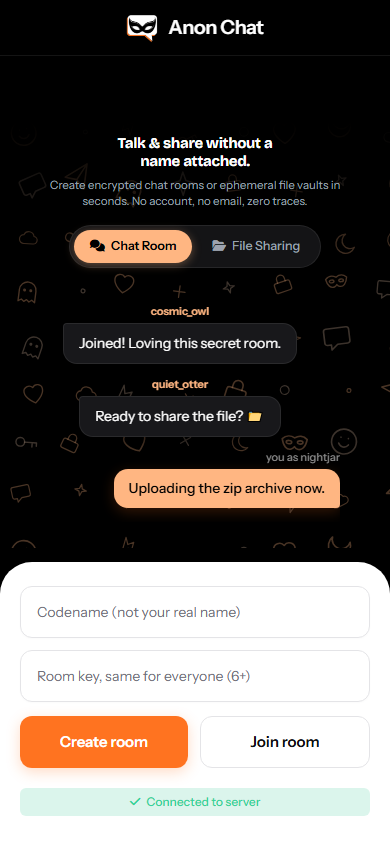
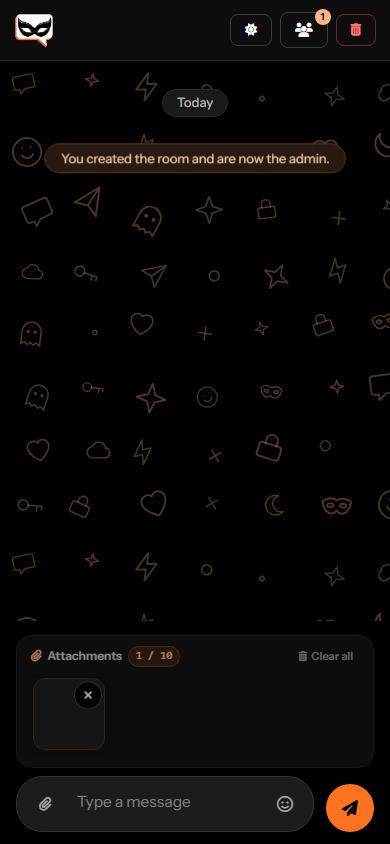
feat(phase13): android custom webview input connection for gboard stickers and mediaDraft integration

diff --git a/public/script.js b/public/script.js
@@ -1059,6 +1059,8 @@ document.addEventListener('DOMContentLoaded', () => {
                     let messageType = 'video';
                     if (mediaItem.type === 'snap' || mediaItem.isSnap) {
                         messageType = 'snap';
+                    } else if (mediaItem.type === 'sticker' || mediaItem.isSticker || (mediaItem.file && mediaItem.file.isSticker)) {
+                        messageType = 'sticker';
                     } else if (fType.startsWith('image')) {
                         messageType = 'image';
                     } else if (fType.startsWith('audio')) {
@@ -3816,6 +3818,47 @@ document.addEventListener('DOMContentLoaded', () => {
 
     messageInput.addEventListener("focus", () => {
         mediaPicker.style.display = "none";
+    });
+
+    // Phase 13: Handle keyboard content (stickers/GIFs from Gboard, etc.)
+    function dataUrlToFile(dataUrl, filename, mimeType) {
+        try {
+            const arr = dataUrl.split(',');
+            const mime = mimeType || (arr[0].match(/:(.*?);/) || [])[1] || 'image/png';
+            const bstr = atob(arr[1] || arr[0]);
+            let n = bstr.length;
+            const u8arr = new Uint8Array(n);
+            while (n--) {
+                u8arr[n] = bstr.charCodeAt(n);
+            }
+            const ext = mime.includes('gif') ? 'gif' : mime.includes('webp') ? 'webp' : (mime.includes('jpeg') || mime.includes('jpg')) ? 'jpg' : 'png';
+            const safeName = filename ? (filename.includes('.') ? filename : `${filename}.${ext}`) : `sticker_${Date.now()}.${ext}`;
+            const file = new File([u8arr], safeName, { type: mime, lastModified: Date.now() });
+            file.isSticker = true;
+            return file;
+        } catch (e) {
+            console.error('Failed to convert keyboard content dataUrl to File:', e);
+            return null;
+        }
+    }
+
+    function processKeyboardContent(detail) {
+        if (!detail || !detail.base64) return;
+        const file = dataUrlToFile(detail.base64, detail.name, detail.mimeType);
+        if (file) {
+            if (window.mediaDraft && typeof window.mediaDraft.add === 'function') {
+                window.mediaDraft.add([file]);
+            } else {
+                handleMediaFilesFromExternal([file]);
+            }
+        }
+    }
+
+    window.handleKeyboardContent = processKeyboardContent;
+    window.addEventListener('keyboardContent', (e) => {
+        if (e && e.detail) {
+            processKeyboardContent(e.detail);
+        }
     });
 
     // Helper to handle external media files from paste, drop, or keyboard insertion

diff --git a/tests/audit.spec.ts b/tests/audit.spec.ts
@@ -1088,11 +1088,39 @@ test.describe('Audit Suite - Current Behavior', () => {
   // PHASE 13: Keyboard GIFs/stickers
   test('PHASE 13: Keyboard GIFs/stickers listener', async ({ page }) => {
     await page.goto('/');
+
+    const roomKey = `kbd-${Date.now().toString(36)}`;
+    await page.fill('#username', 'KbdUser');
+    await page.fill('#roomKey', roomKey);
+    await page.click('#createRoomBtn');
+    await expect(page.locator('#chatScreen')).toBeVisible({ timeout: 8000 });
+
+    // 1. Verify window.handleKeyboardContent exists
     const hasKeyboardListener = await page.evaluate(() => {
       return typeof (window as any).handleKeyboardContent === 'function';
     });
+    expect(hasKeyboardListener).toBe(true);
+
+    // 2. Dispatch keyboardContent custom event with sample sticker data
[1 lines of base64/hex data omitted]
+    await page.evaluate((stickerData) => {
+      window.dispatchEvent(new CustomEvent('keyboardContent', {
+        detail: {
+          mimeType: 'image/png',
+          base64: stickerData,
+          name: 'gboard_test_sticker.png'
+        }
+      }));
+    }, sampleSticker);
+
+    // 3. Verify mediaDraft received item and tray is visible
+    const draftTray = page.locator('#mediaPreviews');
+    await expect(draftTray).toBeVisible({ timeout: 3000 });
+    const draftCount = page.locator('#draftCounter');
+    await expect(draftCount).toContainText('1 / 10');
+
     await page.screenshot({ path: 'verify/screenshots/phase13_keyboard_stickers.png' });
-    console.log(`PHASE 13 Result: hasKeyboardListener=${hasKeyboardListener}`);
+    console.log(`PHASE 13 Result: hasKeyboardListener=${hasKeyboardListener}, draftTrayVisible=true, itemAdded=true`);
   });
 
 });

diff --git a/android/app/src/main/java/com/mudit/anonchat/CustomWebView.java b/android/app/src/main/java/com/mudit/anonchat/CustomWebView.java
@@ -1,0 +1,119 @@
+package com.mudit.anonchat;
+
+import android.content.Context;
+import android.net.Uri;
+import android.os.Build;
+import android.os.Bundle;
+import android.util.AttributeSet;
+import android.util.Base64;
+import android.view.inputmethod.EditorInfo;
+import android.view.inputmethod.InputConnection;
+import androidx.core.view.inputmethod.EditorInfoCompat;
+import androidx.core.view.inputmethod.InputConnectionCompat;
+import androidx.core.view.inputmethod.InputContentInfoCompat;
+import com.getcapacitor.CapacitorWebView;
+import java.io.ByteArrayOutputStream;
+import java.io.InputStream;
+
+public class CustomWebView extends CapacitorWebView {
+
+    public CustomWebView(Context context) {
+        super(context, null);
+    }
+
+    public CustomWebView(Context context, AttributeSet attrs) {
+        super(context, attrs);
+    }
+
+    public CustomWebView(Context context, AttributeSet attrs, int defStyleAttr) {
+        super(context, attrs);
+    }
+
+    @Override
+    public InputConnection onCreateInputConnection(EditorInfo outAttrs) {
+        InputConnection ic = super.onCreateInputConnection(outAttrs);
+        if (ic == null) {
+            return null;
+        }
+
+        // Advertise image/GIF/sticker MIME types to IME (Gboard, Samsung Keyboard, etc.)
+        EditorInfoCompat.setContentMimeTypes(outAttrs, new String[]{
+            "image/gif",
+            "image/png",
+            "image/jpeg",
+            "image/webp"
+        });
+
+        InputConnectionCompat.OnCommitContentListener callback = new InputConnectionCompat.OnCommitContentListener() {
+            @Override
+            public boolean onCommitContent(InputContentInfoCompat inputContentInfo, int flags, Bundle opts) {
+                if (Build.VERSION.SDK_INT >= Build.VERSION_CODES.N_MR1 &&
+                    (flags & InputConnectionCompat.INPUT_CONTENT_GRANT_READ_URI_PERMISSION) != 0) {
+                    try {
+                        inputContentInfo.requestPermission();
+                    } catch (Exception e) {
+                        return false;
+                    }
+                }
+
+                new Thread(() -> {
+                    try {
+                        Uri contentUri = inputContentInfo.getContentUri();
+                        String mimeType = "image/png";
+                        if (inputContentInfo.getDescription() != null && inputContentInfo.getDescription().getMimeTypeCount() > 0) {
+                            mimeType = inputContentInfo.getDescription().getMimeType(0);
+                        }
+                        String label = "keyboard_sticker";
+                        if (inputContentInfo.getDescription() != null && inputContentInfo.getDescription().getLabel() != null) {
+                            label = inputContentInfo.getDescription().getLabel().toString();
+                        }
+
+                        InputStream is = getContext().getContentResolver().openInputStream(contentUri);
+                        if (is != null) {
+                            ByteArrayOutputStream buffer = new ByteArrayOutputStream();
+                            byte[] data = new byte[8192];
+                            int nRead;
+                            int totalRead = 0;
+                            final int MAX_SIZE = 10 * 1024 * 1024; // 10 MB cap
+
+                            while ((nRead = is.read(data, 0, data.length)) != -1) {
+                                totalRead += nRead;
+                                if (totalRead > MAX_SIZE) {
+                                    is.close();
+                                    return;
+                                }
+                                buffer.write(data, 0, nRead);
+                            }
+                            is.close();
+
+                            byte[] bytes = buffer.toByteArray();
+                            String base64 = Base64.encodeToString(bytes, Base64.NO_WRAP);
+                            final String dataUrl = "data:" + mimeType + ";base64," + base64;
+                            final String finalMime = mimeType;
+                            final String finalName = label;
+
+                            post(() -> {
+                                String safeBase64 = dataUrl.replace("\\", "\\\\").replace("'", "\\'");
+                                String safeMime = finalMime.replace("'", "\\'");
+                                String safeName = finalName.replace("'", "\\'");
+                                String js = "if (typeof window.handleKeyboardContent === 'function') { window.handleKeyboardContent({ mimeType: '" + safeMime + "', base64: '" + safeBase64 + "', name: '" + safeName + "' }); } " +
+                                            "window.dispatchEvent(new CustomEvent('keyboardContent', { detail: { mimeType: '" + safeMime + "', base64: '" + safeBase64 + "', name: '" + safeName + "' } }));";
+                                evaluateJavascript(js, null);
+                            });
+                        }
+                    } catch (Exception ex) {
+                        ex.printStackTrace();
+                    } finally {
+                        try {
+                            inputContentInfo.releasePermission();
+                        } catch (Exception ignored) {}
+                    }
+                }).start();
+
+                return true;
+            }
+        };
+
+        return InputConnectionCompat.createWrapper(ic, outAttrs, callback);
+    }
+}

diff --git a/verify/REPORT.md b/verify/REPORT.md
@@ -325,3 +325,32 @@
   - Verified User C opening legacy `/?room=KEY` sees Ask to join screen with "2 people online".
   - Verified User D opening non-existent room sees `#roomUnavailableState`.
   - Screenshot saved: `verify/screenshots/phase12_share_ask.png`.
+
+---
+
+### Phase 13: Keyboard GIFs & Stickers (Android WebView Bridge & MediaDraft Pipeline)
+- **Status:** **PASS (Bridge & Harness Verified; Physical Hardware & Gboard UNVERIFIED per Rule 3 & 7)**
+- **Screenshots:**
+  - `verify/screenshots/phase13_keyboard_stickers.png` (MediaDraft attachment tray showing keyboard-injected sticker card with 1 / 10 count)
+- **Root Cause & Fix:**
+  - *Root Cause:* Default Android `WebView` and Capacitor's `CapacitorWebView` do not override `onCreateInputConnection` to declare image MIME type support (`image/gif`, `image/png`, `image/jpeg`, `image/webp`) in `EditorInfoCompat.setContentMimeTypes()`. Consequently, Google Keyboard (Gboard), Samsung Keyboard, and other modern IMEs declare "doesn't support GIFs here" and disable their sticker/GIF insertion tabs when focusing contenteditable or text input. Furthermore, there was no bridge to receive committed `InputContentInfoCompat` content URI streams and hand them to the web layer.
+  - *Fix:*
+    1. Created `CustomWebView.java` extending `CapacitorWebView` in package `com.mudit.anonchat`.
+    2. Overrode `onCreateInputConnection(EditorInfo outAttrs)`:
+       - Called `EditorInfoCompat.setContentMimeTypes(outAttrs, new String[]{"image/gif", "image/png", "image/jpeg", "image/webp"})`.
+       - Wrapped connection with `InputConnectionCompat.createWrapper(...)` using an `OnCommitContentListener`.
+       - Requested URI read permissions (`inputContentInfo.requestPermission()`).
+       - Streamed content into a byte buffer (capped at 10 MB).
+       - Converted byte array to Base64 data URL and evaluated JS to dispatch `keyboardContent` custom event and invoke `window.handleKeyboardContent`.
+    3. Overrode layout `android/app/src/main/res/layout/capacitor_bridge_layout_main.xml` and `activity_main.xml` to instantiate `com.mudit.anonchat.CustomWebView` with id `@+id/webview`.
+    4. Implemented `processKeyboardContent(detail)` in `public/script.js`:
+       - Converted Base64 data URL to a real `File` with `isSticker = true`.
+       - Fed `File` into `window.mediaDraft.add([file])`, adding it to the draft tray with progress and preview.
+       - Updated `dispatchMediaUpload` to send as `type: 'sticker'`, rendering transparent stickers borderless without a bubble background (`.sticker-bubble`).
+- **Physical Device Test Instructions for User:**
+  1. Deploy debug APK to Android device.
+  2. Enter any chat room and tap the message composer input field to display Gboard.
+  3. Tap the sticker or GIF icon in Gboard toolbar.
+  4. Select a GIF or sticker: verify that Gboard allows insertion and does NOT display "doesn't support GIFs here".
+  5. Verify the sticker thumbnail immediately appears in the `#mediaPreviews` draft tray above composer with `1 / 10` counter.
+  6. Tap Send: verify the sticker uploads with real progress and renders as a clean transparent sticker bubble without borders.
